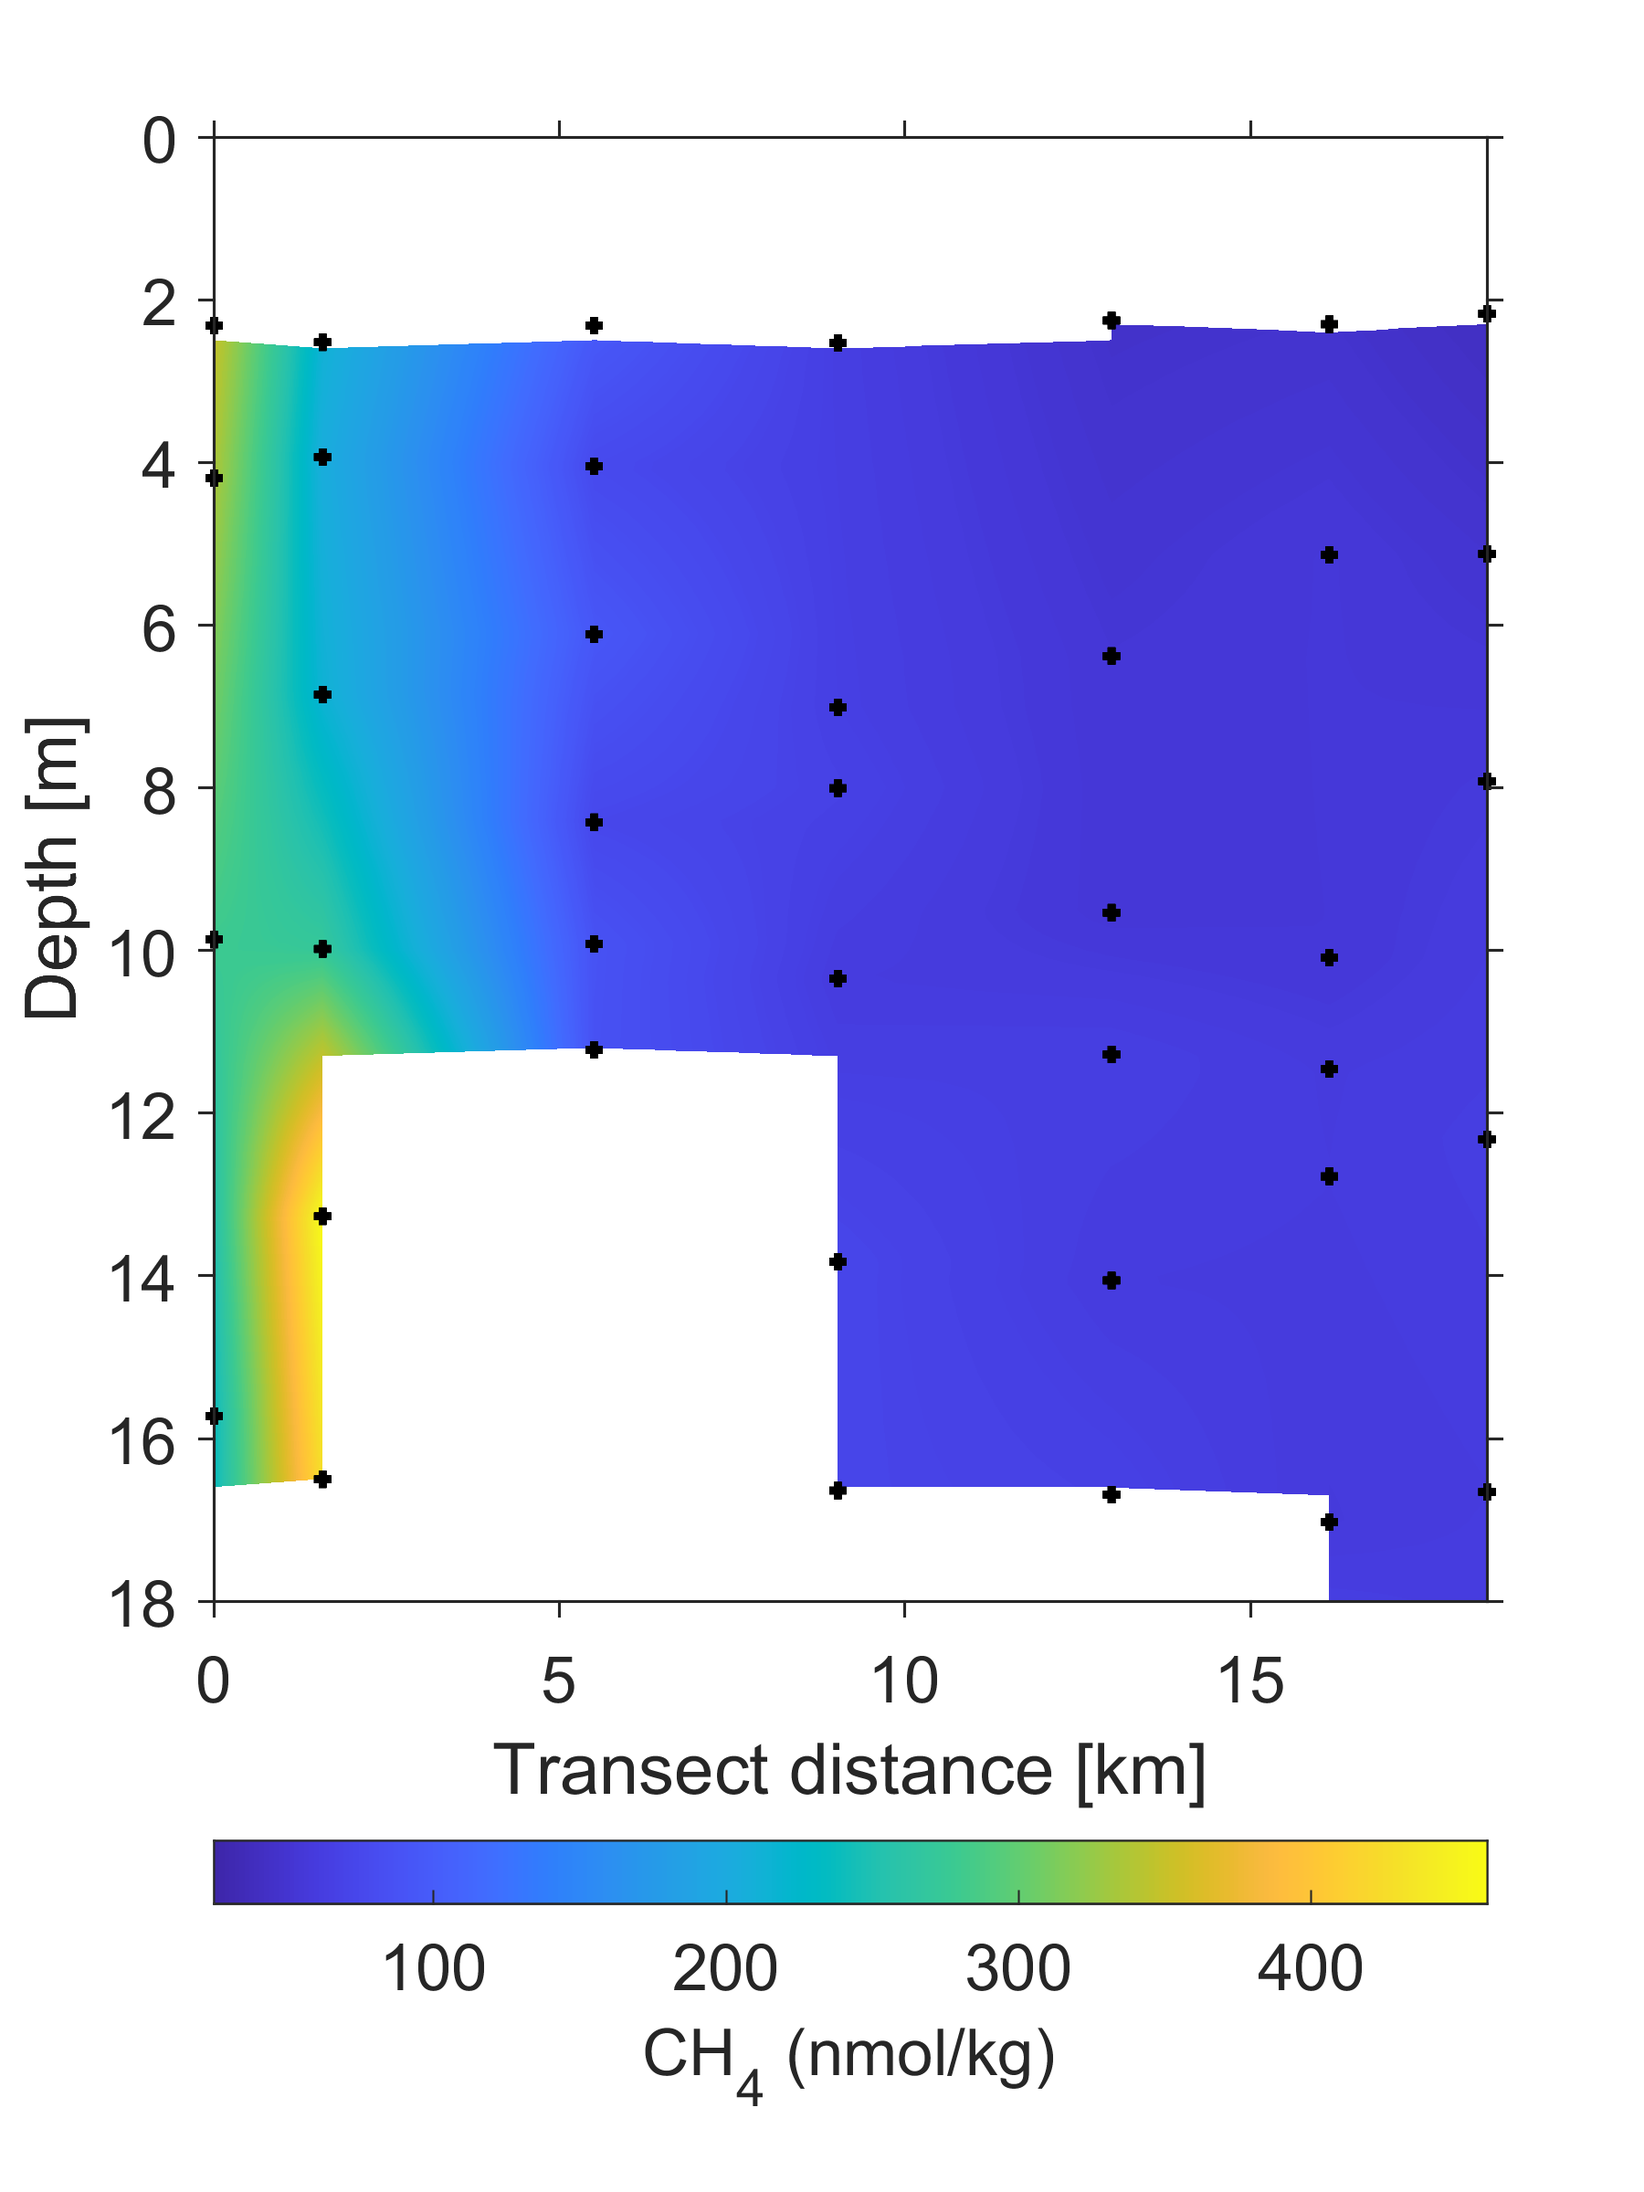
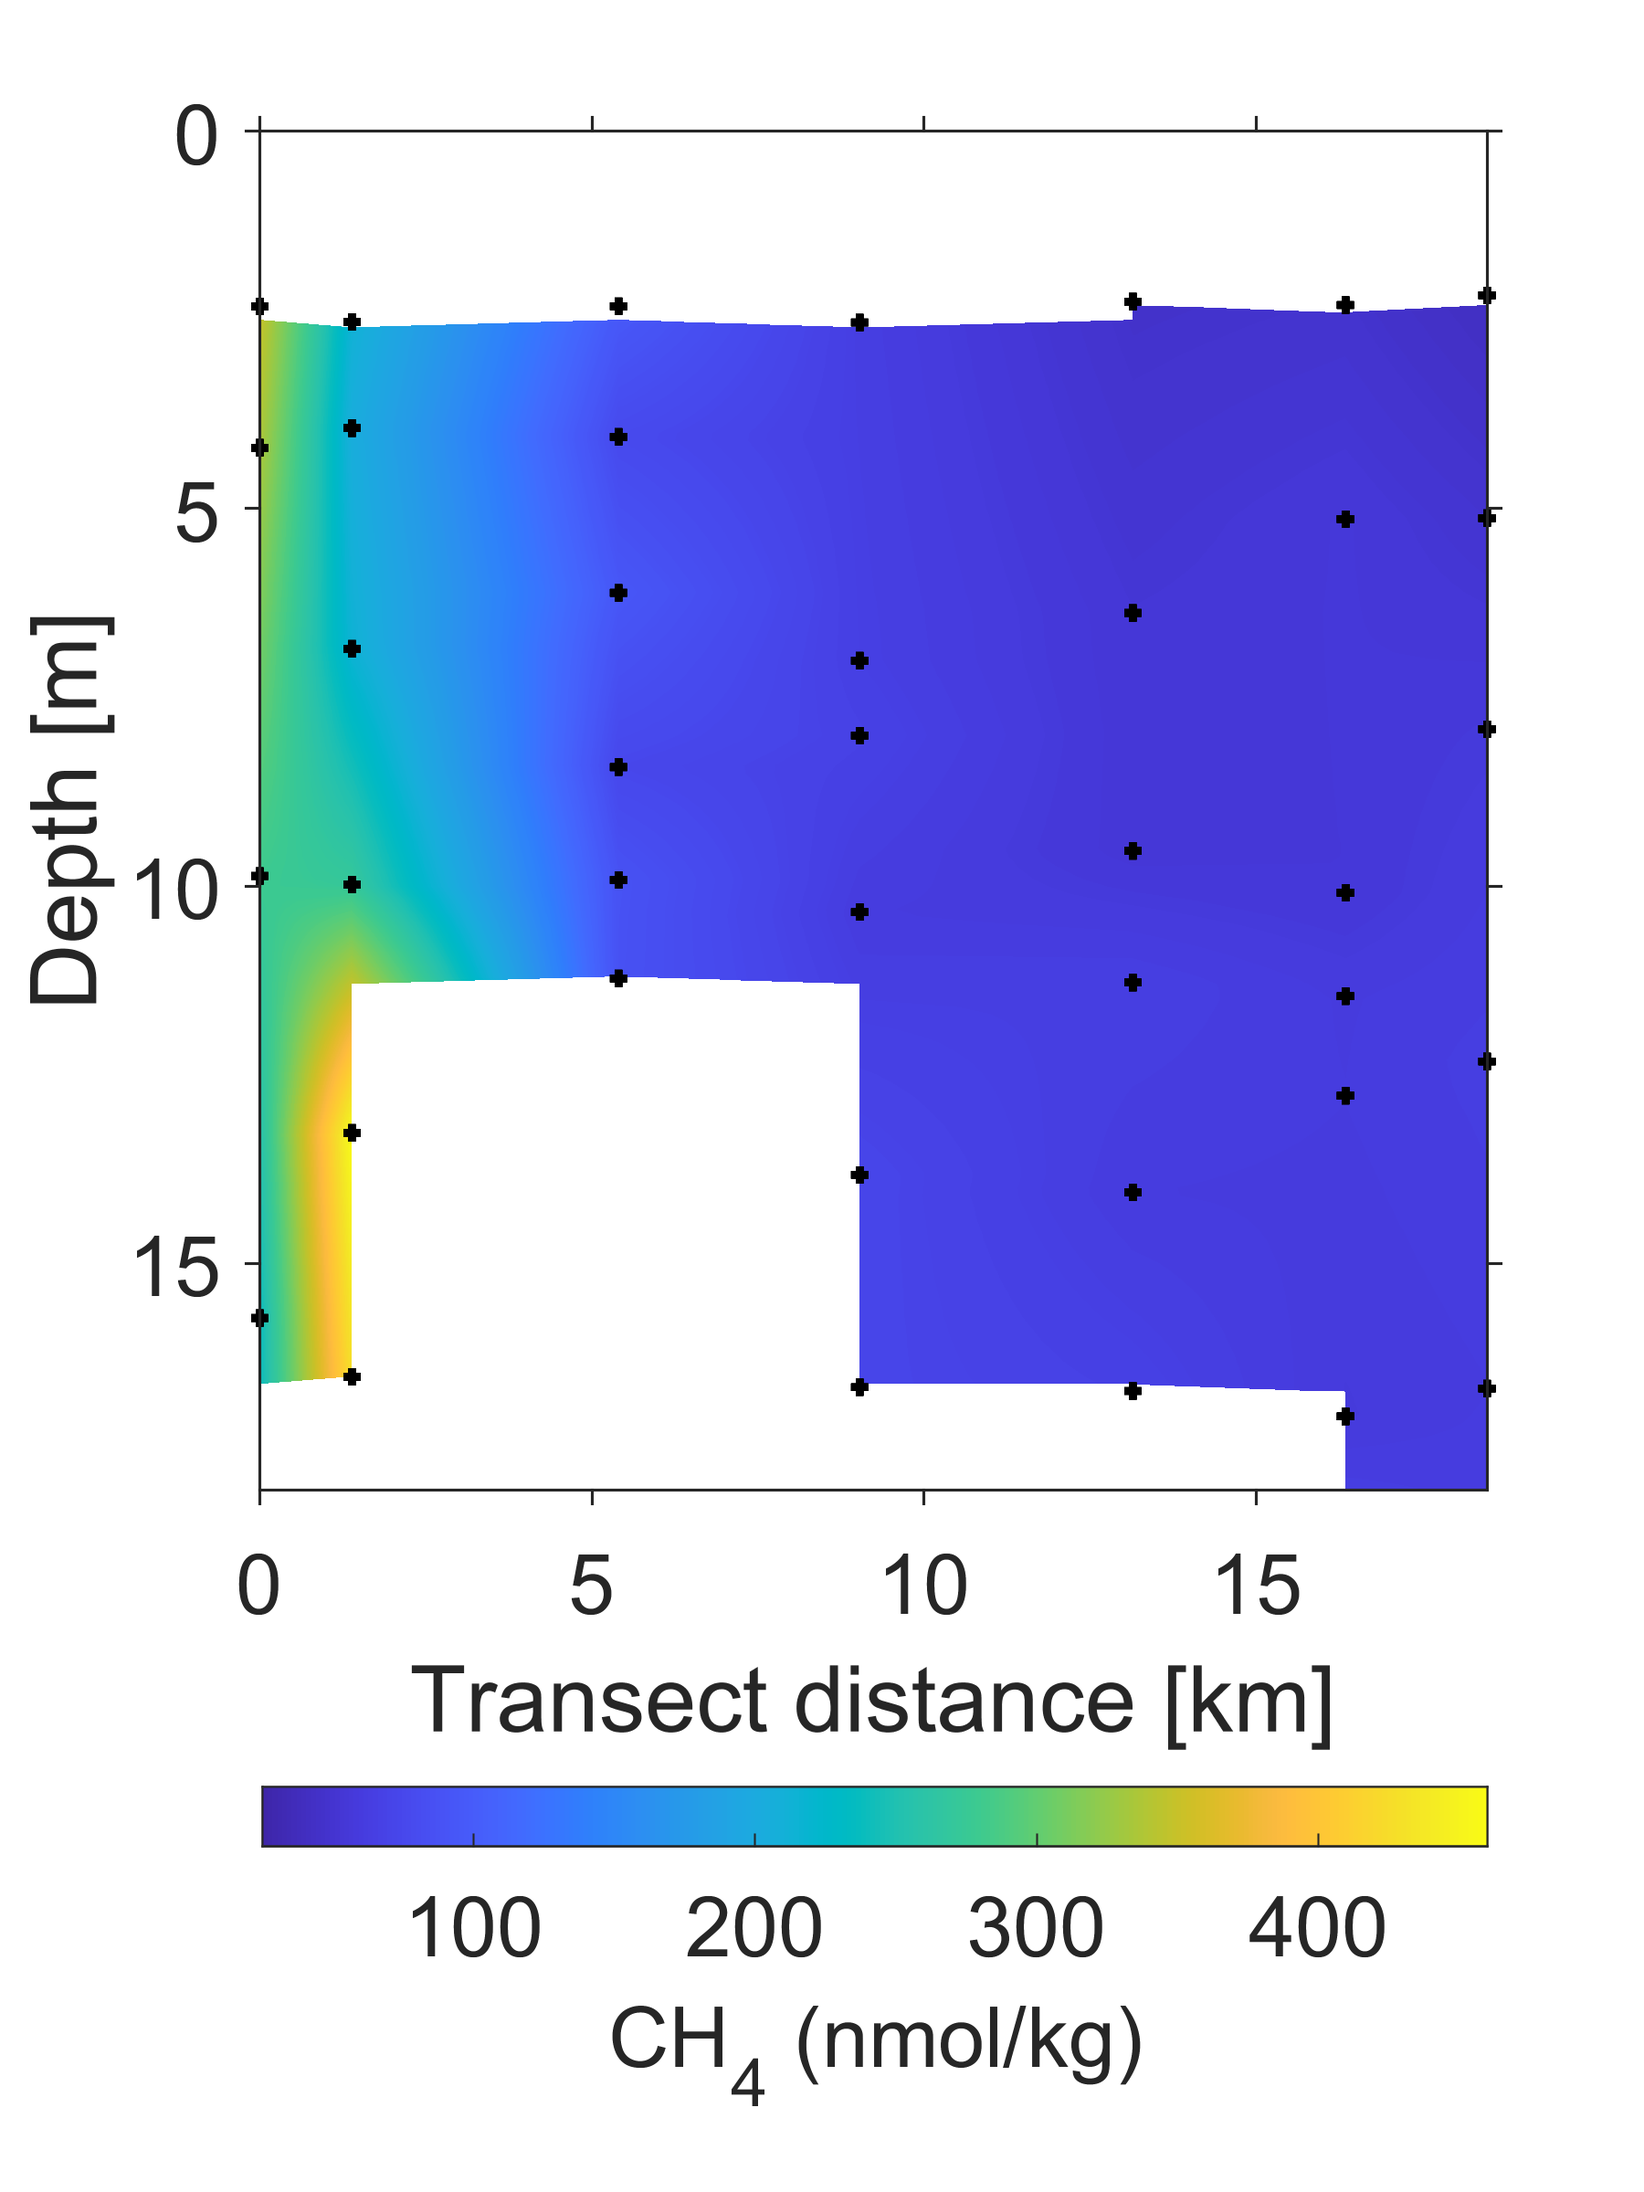
updates to LIS plots

Changed region(s): [[0.0, 0.125, 0.9333, 0.9688], [0.0933, 0.0312, 0.1556, 0.0938], [0.4978, 0.3125, 0.5289, 0.3438]]

diff --git a/LIS/plot_LISGC_transect.m b/LIS/plot_LISGC_transect.m
@@ -1,23 +1,23 @@
-load LISAug23_CH4N2O_CTD.mat
-LIS = LISAug23_CH4N2O_CTD;
-
-load LISAug2023CastData.mat;
-
-ncast = 16:22;
-Cast = LISAug2023CastData.Cast(ncast);
-Lat = LISAug2023CastData.Lat(ncast);
-Lon = LISAug2023CastData.Lon(ncast);
-
-
-% load LISOct23_CH4N2O_CTD.mat
-% LIS = LISOct23_CH4N2O_CTD;
+% load LISAug23_CH4N2O_CTD.mat
+% LIS = LISAug23_CH4N2O_CTD;
 % 
-% load LISOct2023CastData.mat;
+% load LISAug2023CastData.mat;
 % 
 % ncast = 16:22;
-% Cast = LISOct2023CastData.Cast(ncast);
-% Lat = LISOct2023CastData.Lat(ncast);
-% Lon = LISOct2023CastData.Lon(ncast);
+% Cast = LISAug2023CastData.Cast(ncast);
+% Lat = LISAug2023CastData.Lat(ncast);
+% Lon = LISAug2023CastData.Lon(ncast);
+
+
+load LISOct23_CH4N2O_CTD.mat
+LIS = LISOct23_CH4N2O_CTD;
+
+load LISOct2023CastData.mat;
+
+ncast = 16:22;
+Cast = LISOct2023CastData.Cast(ncast);
+Lat = LISOct2023CastData.Lat(ncast);
+Lon = LISOct2023CastData.Lon(ncast);
 
 
 km_between = m_lldist(Lon,Lat); % distance between consecutive stations
@@ -157,7 +157,7 @@ O2i(:,7) = interp1(LIS.Depth(A),LIS.O2_umolkg(A),dl);
 
 
 
-fs=17;
+fs=22;
 figure(2)
 clf; hold on;
 box on;
@@ -210,10 +210,12 @@ c = colorbar('location','southoutside');
 c.Label.String = 'CH_4 (nmol/kg)';
 c.FontSize = fs;
 set(gca,'layer','top');
+set(gca,'ytick',[0 5 10 15]);
 ylim([0 18]);
 axis ij;
 
-%print -dpng -r300 LIS_CH4_transect_Oct.png;
+print -dpng -r300 LIS_CH4_transect_Oct.png;
+%print -dpng -r300 LIS_CH4_transect_Aug.png;
 
 wysiwyg;
 %%
@@ -270,7 +272,8 @@ ylim([0 18]);
 set(gca,'layer','top');
 axis ij;
 
-%print -dpng -r300 LIS_N2O_transect_Oct.png;
+print -dpng -r300 LIS_N2O_transect_Oct.png;
+%print -dpng -r300 LIS_N2O_transect_Aug.png;
 
 wysiwyg;
 %%
@@ -329,7 +332,8 @@ set(gca,'layer','top');
 ylim([0 18]);
 axis ij;
 
-print -dpng -r300 LIS_O2_transect_Aug.png;
+%print -dpng -r300 LIS_O2_transect_Aug.png;
+print -dpng -r300 LIS_O2_transect_Oct.png;
 
 wysiwyg;
 
